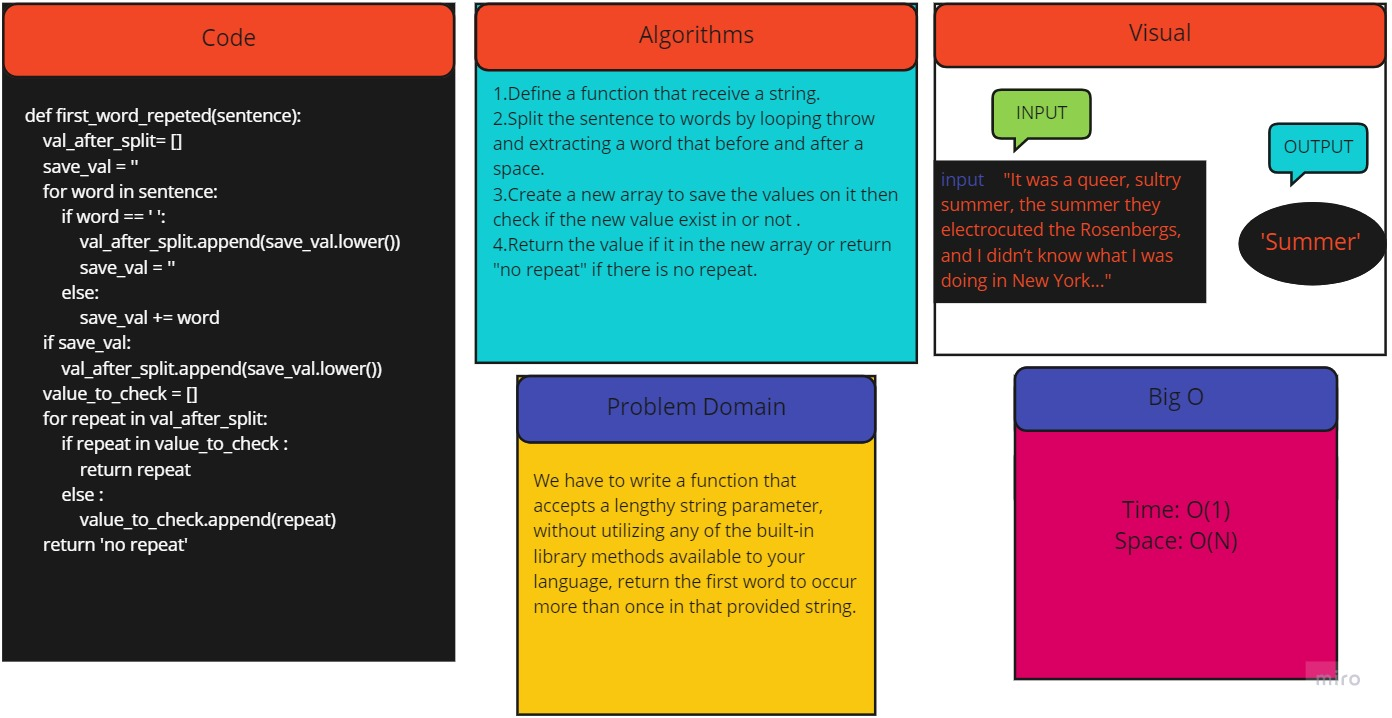
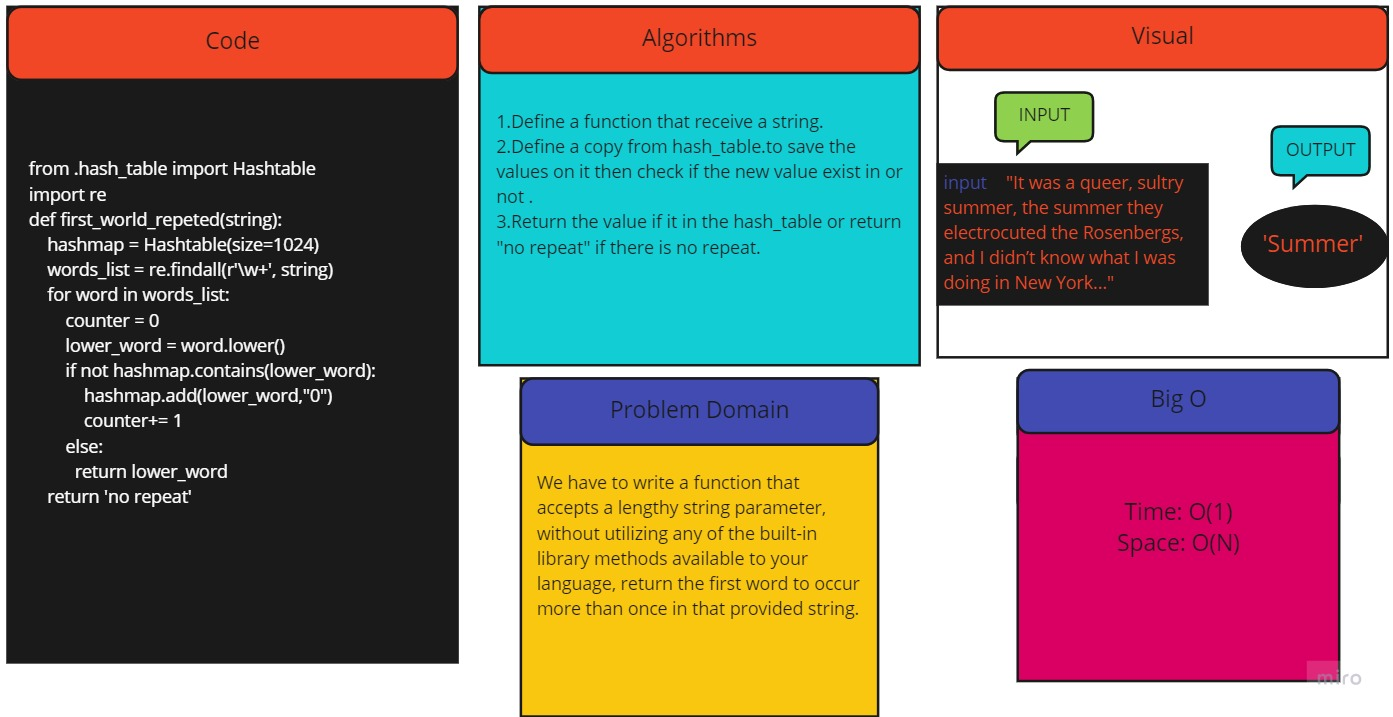
ch31

Changed region(s): [[0.0, 0.0, 1.0, 1.0], [0.8032, 0.675, 0.8958, 0.7671]]

diff --git a/python/code_challenges/reapetedword/repeat.py b/python/code_challenges/reapetedword/repeat.py
@@ -1,26 +1,42 @@
-# import re
-def first_word_repeted(sentence):
-    val_after_split= []
-    save_val = ''
-    for word in sentence:
-        if word == ' ':
-            val_after_split.append(save_val.lower())
-            save_val = ''
+# # import re
+# def first_word_repeted(sentence):
+#     val_after_split= []
+#     save_val = ''
+#     for word in sentence:
+#         if word == ' ':
+#             val_after_split.append(save_val.lower())
+#             save_val = ''
+#         else:
+#             save_val += word
+#     if save_val:
+#         val_after_split.append(save_val.lower())
+#     value_to_check = []
+#     for repeat in val_after_split:
+#         if repeat in value_to_check :
+#             return repeat
+#         else :
+#             value_to_check.append(repeat)
+#     return 'no repeat'
+# index_one = "It was a queer, sultry summer , the summer they electrocuted the Rosenbergs, and I didn’t know what I was doing in New York..."
+# index_tow ="It was the best of times, it was the worst of times, it was the age of wisdom, it was the age of foolishness, it was the epoch of belief, it was the epoch of incredulity, it was the season of Light, it was the season of Darkness, it was the spring of hope, it was the winter of despair, we had everything before us, we had nothing before us, we were all going direct to Heaven, we were all going direct the other way – in short, the period was so far like the present period, that some of its noisiest authorities insisted on its being received, for good or for evil, in the superlative degree of comparison only..."
+# index_three= "Once upon a time, there was a brave princess who..."
+# index_four= "hi my name is omar"
+# print(first_word_repeted(index_one))
+# print(first_word_repeted(index_tow))
+# print(first_word_repeted(index_four))
+
+
+from .hash_table import Hashtable
+import re
+def first_world_repeted(string):
+    hashmap = Hashtable(size=1024)
+    words_list = re.findall(r'\w+', string)
+    for word in words_list:
+        counter = 0
+        lower_word = word.lower()
+        if not hashmap.contains(lower_word):
+            hashmap.add(lower_word,"0")
+            counter+= 1
         else:
-            save_val += word
-    if save_val:
-        val_after_split.append(save_val.lower())
-    value_to_check = []
-    for repeat in val_after_split:
-        if repeat in value_to_check :
-            return repeat
-        else :
-            value_to_check.append(repeat)
-    return 'no repeat'
-index_one = "It was a queer, sultry summer , the summer they electrocuted the Rosenbergs, and I didn’t know what I was doing in New York..."
-index_tow ="It was the best of times, it was the worst of times, it was the age of wisdom, it was the age of foolishness, it was the epoch of belief, it was the epoch of incredulity, it was the season of Light, it was the season of Darkness, it was the spring of hope, it was the winter of despair, we had everything before us, we had nothing before us, we were all going direct to Heaven, we were all going direct the other way – in short, the period was so far like the present period, that some of its noisiest authorities insisted on its being received, for good or for evil, in the superlative degree of comparison only..."
-index_three= "Once upon a time, there was a brave princess who..."
-index_four= "hi my name is omar"
-print(first_word_repeted(index_one))
-print(first_word_repeted(index_tow))
-print(first_word_repeted(index_four))
+          return lower_word 
+    return 'no repeat' 

diff --git a/python/code_challenges/reapetedword/hash_table.py b/python/code_challenges/reapetedword/hash_table.py
@@ -1,0 +1,67 @@
+class Node:
+    def __init__(self, data):
+        self.data = data
+        self.next = None
+
+class Linked_list:
+    def __init__(self):
+        self.head = None
+    def append(self, data):
+        new_node = Node(data)
+        if self.head is None:
+            self.head = new_node
+        else :
+            last_node =self.head
+
+            while last_node.next:
+                last_node = last_node.next
+            last_node.next=new_node
+    def __str__(self):
+        cur_node= self.head
+        result =""
+        while cur_node:
+            result += f"{ {str(cur_node.data)} } -> "
+            cur_node=cur_node.next
+        result += "NULL"
+        return result
+    def insert(self,data):
+        new_node = Node(data)
+        if self.head is None:
+          self.head = new_node
+          return
+        last_node =self.head
+        while last_node.next:
+            last_node = last_node.next
+        last_node.next=new_node
+
+class Hashtable:
+    def __init__(self, size):
+        self.size = size
+        self.map = [None]*size
+    def add(self, key, value):
+        idx = self.hash(key)
+        if not self.map[idx]:
+            self.map[idx] = Linked_list()
+        self.map[idx].insert([key, value])
+    def get(self, key):
+        idx = self.hash(key)
+        if self.map[idx]:
+            current = self.map[idx].head
+            while current:
+                if current.data[0] == key :
+                    return current.data[1]
+                current = current.next
+        else:
+            return None
+    def contains(self,key):
+        if  self.map[self.hash(key)]:
+            return True
+        else:
+            return False
+    def hash(self, key):
+        ascii_total = 0
+        for ch in key:
+            ascii_total += ord(ch)
+        hashed = ascii_total * 17
+        hashed = hashed % self.size
+        return hashed

diff --git a/python/code_challenges/reapetedword/README.md b/python/code_challenges/reapetedword/README.md
@@ -10,9 +10,6 @@ Time: O(1)
 Space: O(N)
 ## Solution
 <!-- Show how to run your code, and examples of it in action -->
-
-
 1.Define a function that receive a string.
-2.Split the sentence to words by looping throw and extracting a word that before and after a space.
-3.Create a new array to save the values on it then check if the new value exist in or not .
-4.Return the value if it in the new array or return "no repeat" if there is no repeat.
+2.Define a copy from hash_table.to save the values on it then check if the new value exist in or not .
+3.Return the value if it in the hash_table or return "no repeat" if there is no repeat.
